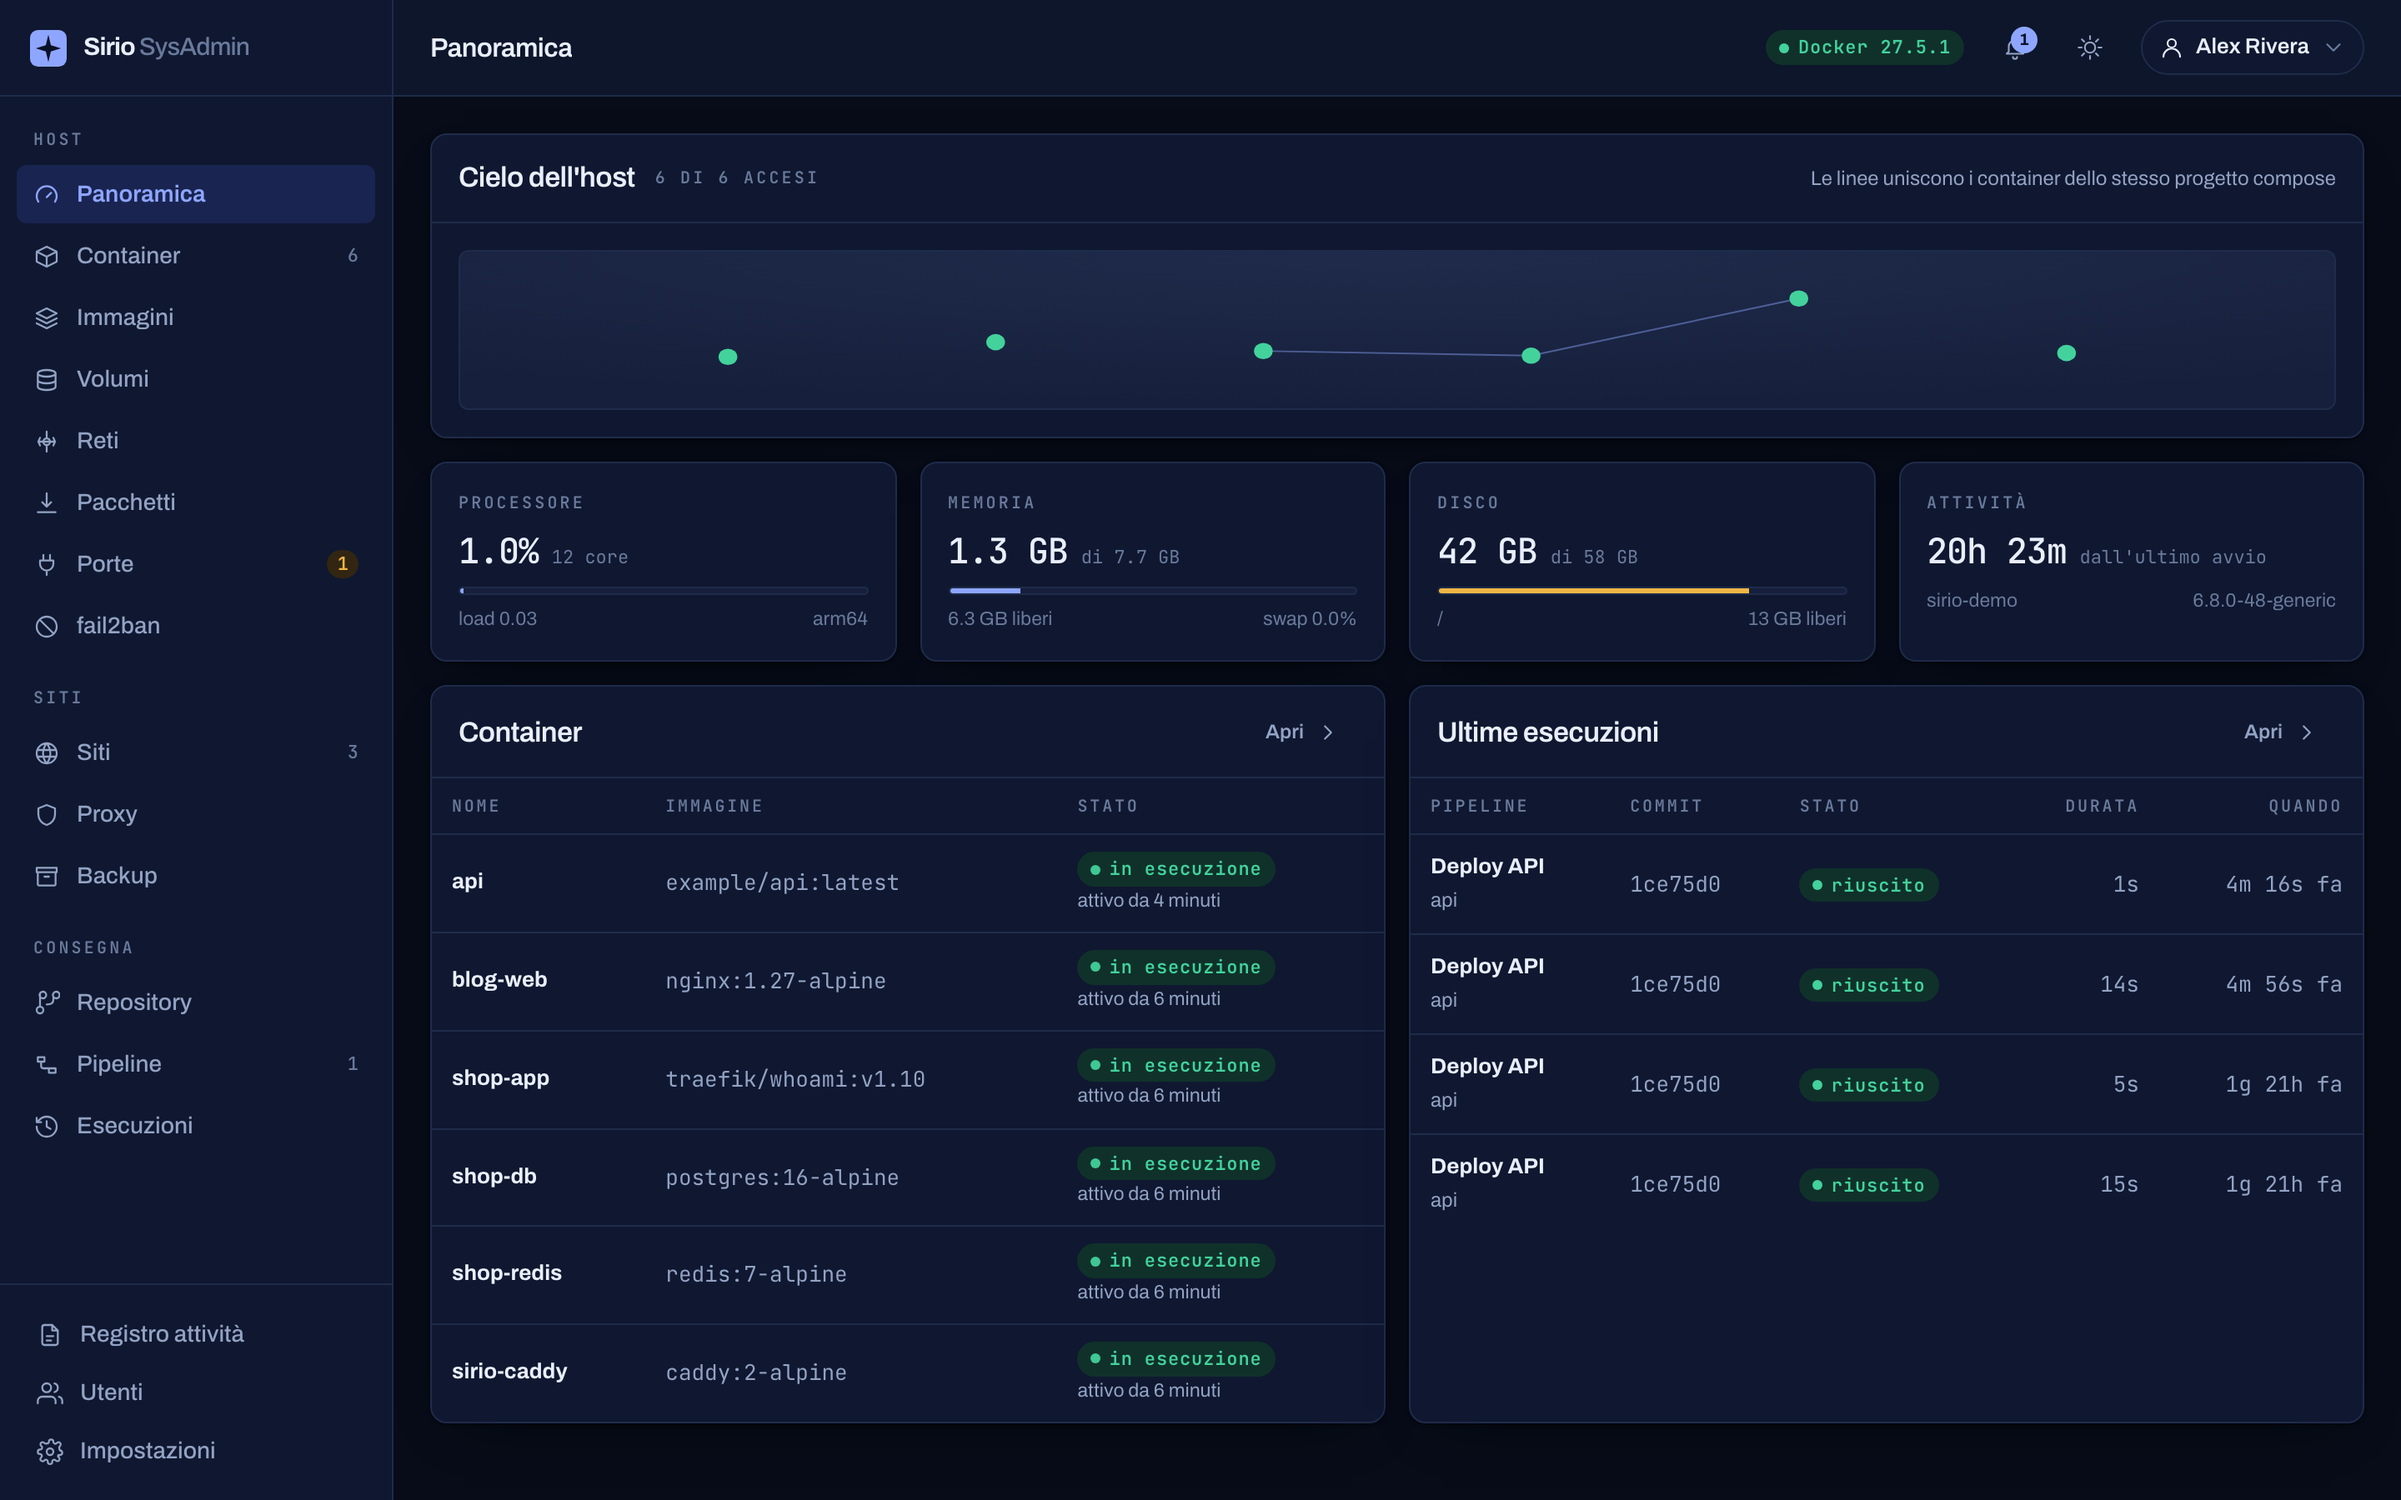
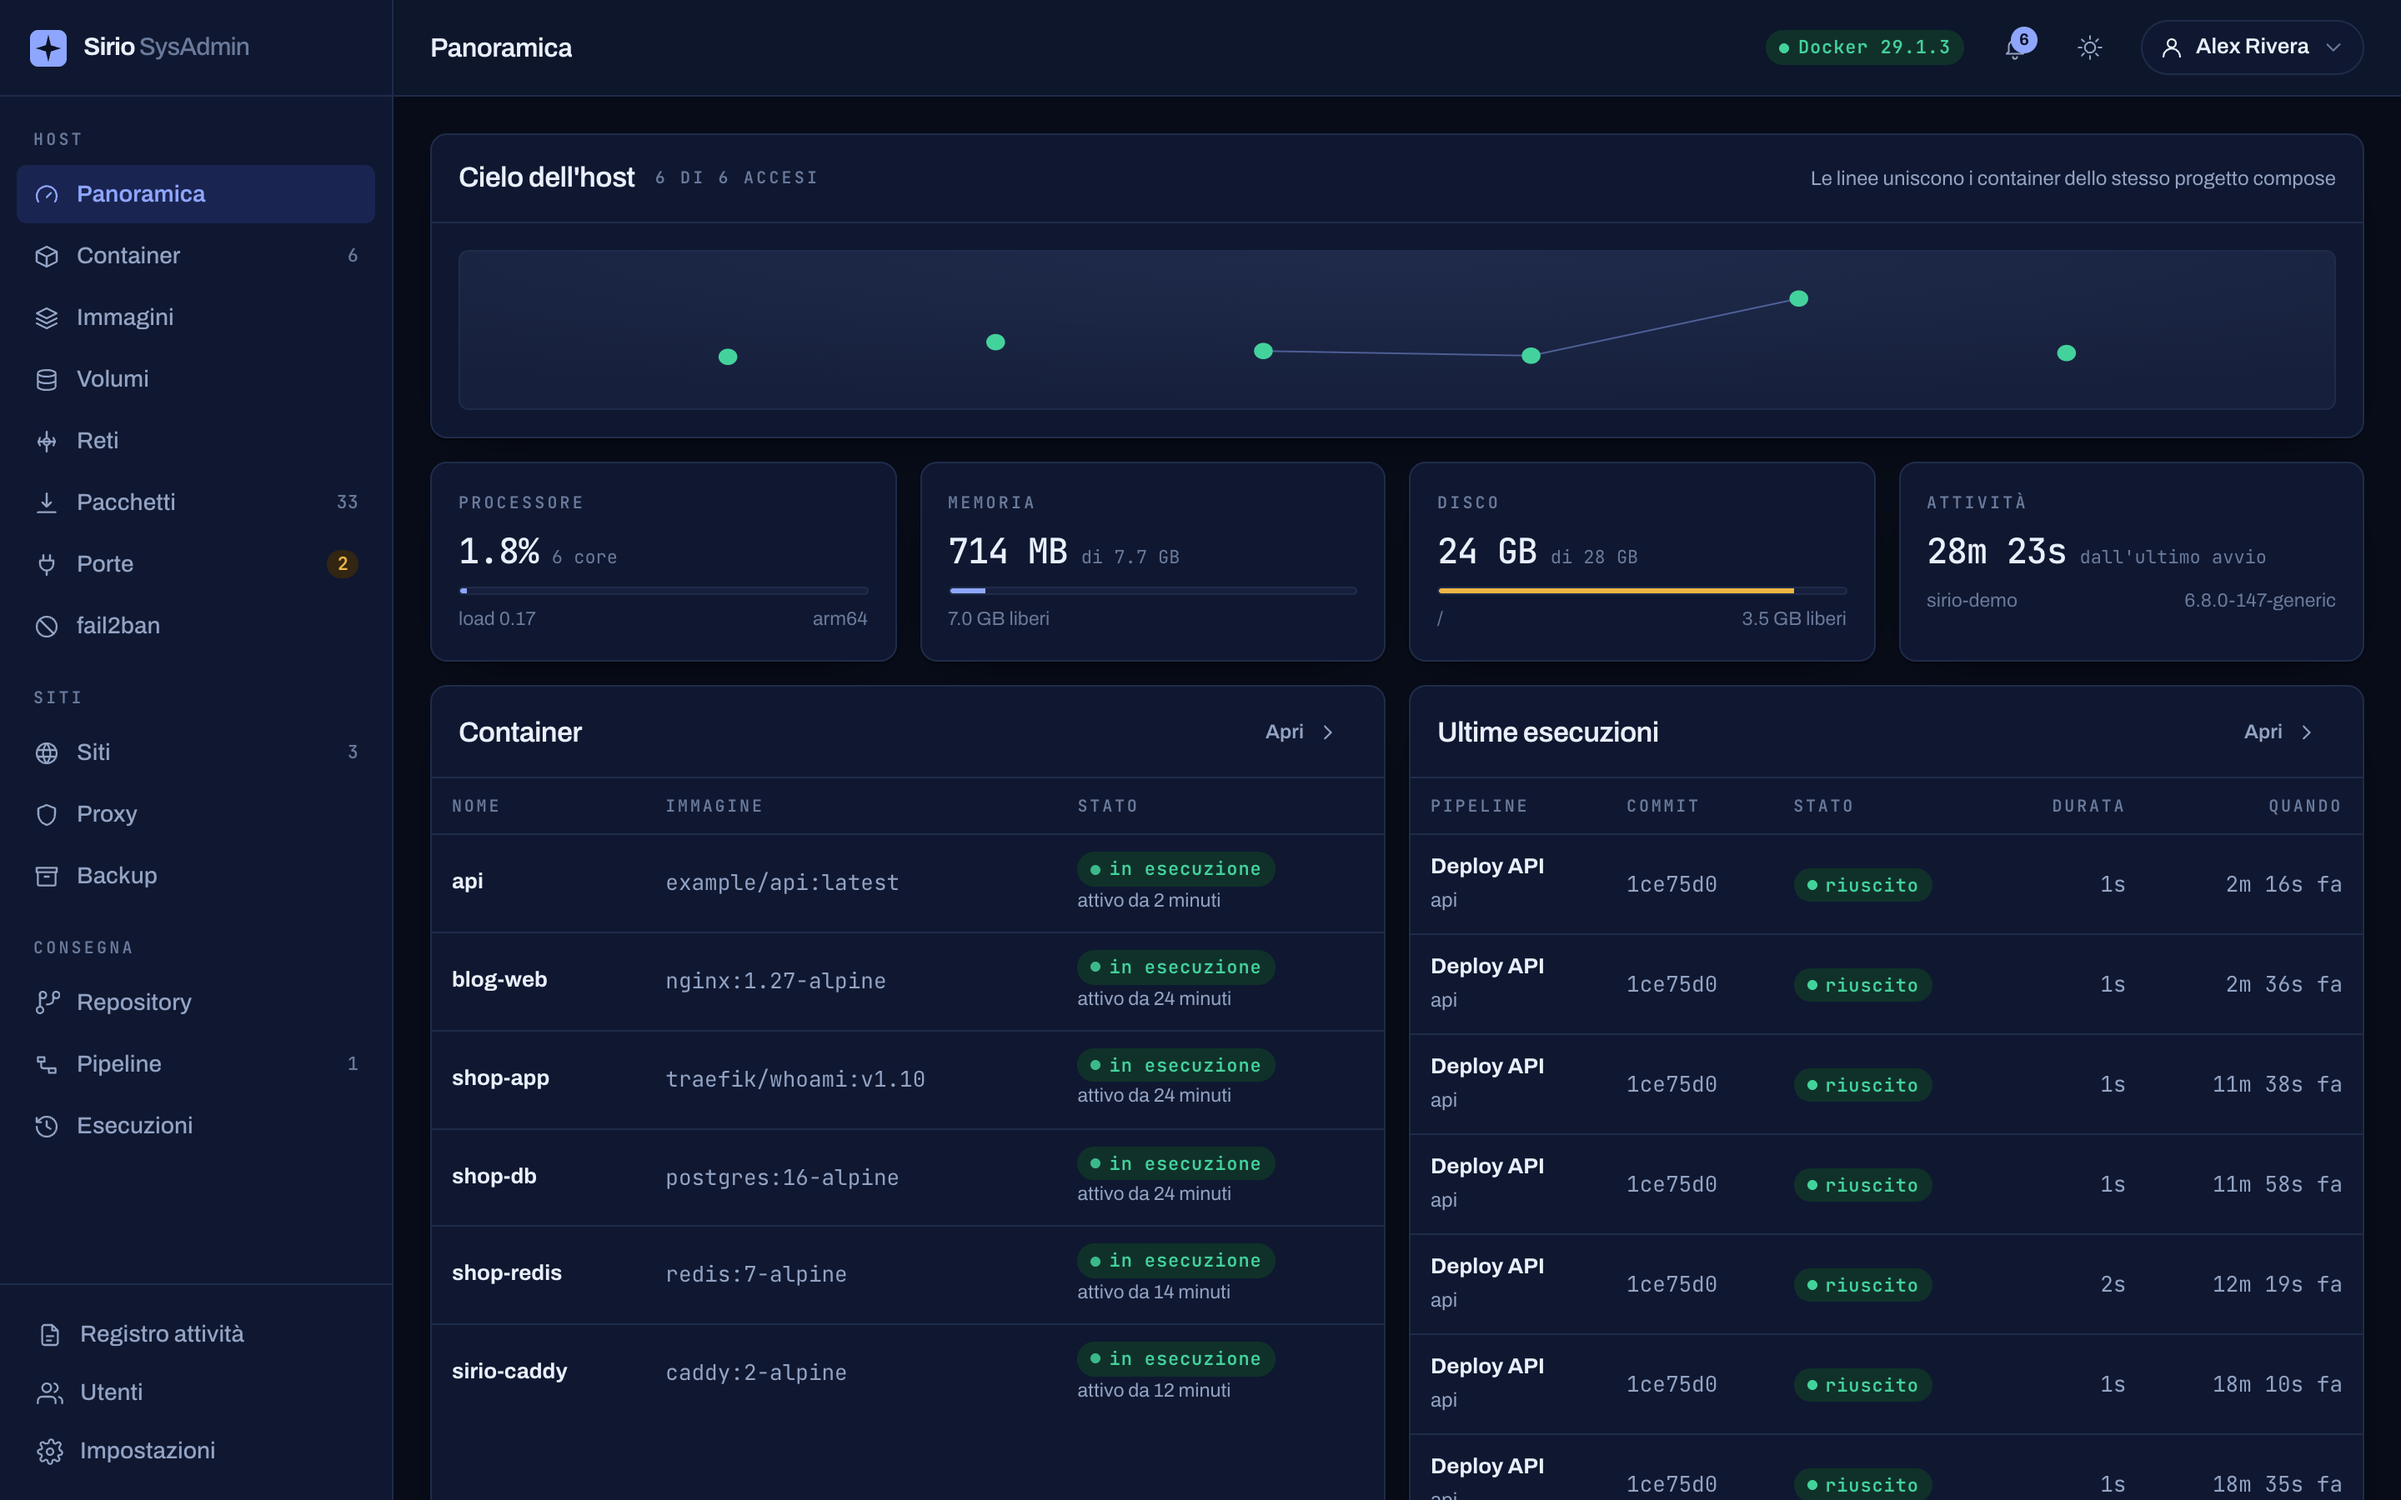
Retake the panel's screenshots on Sirio 0.26.0
The same seven views in both themes and locales, on a fresh demo host
with Docker 29.1.3: the managed proxy, six pipeline runs, five snapshots
of the shop's nightly backup, and real notifications in the bell. The
Ports page now also warns about SSH on the default port and notes that
fail2ban isn't installed, so its alt text says so.

diff --git a/src/components/features/copy.ts b/src/components/features/copy.ts
@@ -359,7 +359,7 @@ export const features: Record<
 				shot: {
 					name: 'ports',
 					label: 'Host',
-					alt: 'The Ports page: a warning about the panel reachable over plain HTTP, the listening ports with their exposure and owner, and the fail2ban status.',
+					alt: 'The Ports page: warnings about SSH on the default port and the panel reachable over plain HTTP, a note that fail2ban isn’t installed, and the listening ports with their exposure and owner.',
 					caption: 'Listening ports, with the warnings that matter.',
 				},
 				items: [
@@ -1000,7 +1000,7 @@ export const features: Record<
 				shot: {
 					name: 'ports',
 					label: 'Host',
-					alt: 'La pagina Porte: un avviso sul pannello raggiungibile in HTTP in chiaro, le porte in ascolto con esposizione e proprietario, e lo stato di fail2ban.',
+					alt: 'La pagina Porte: gli avvisi su SSH sulla porta predefinita e sul pannello raggiungibile in HTTP in chiaro, una nota su fail2ban non installato, e le porte in ascolto con esposizione e proprietario.',
 					caption: 'Le porte in ascolto, con gli avvisi che contano.',
 				},
 				items: [
